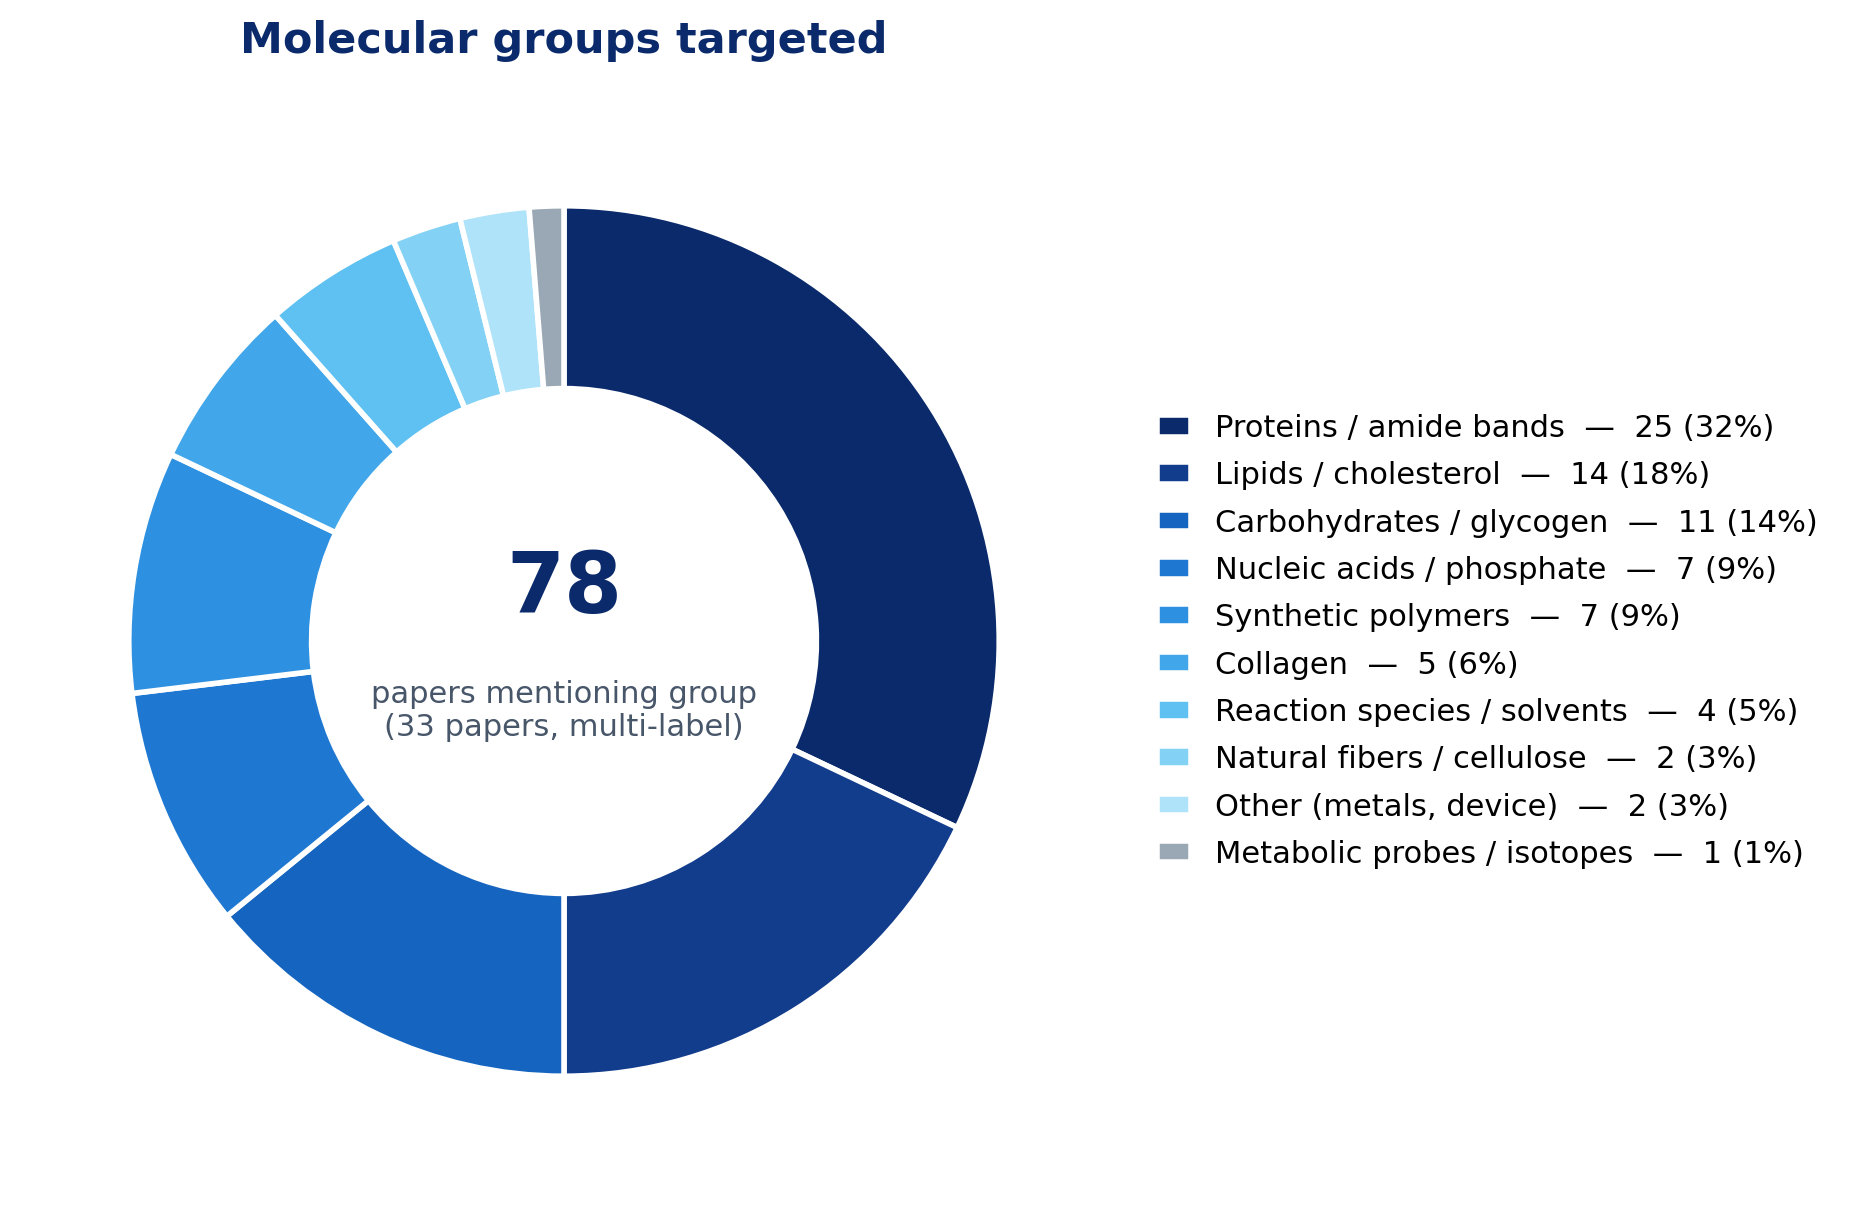
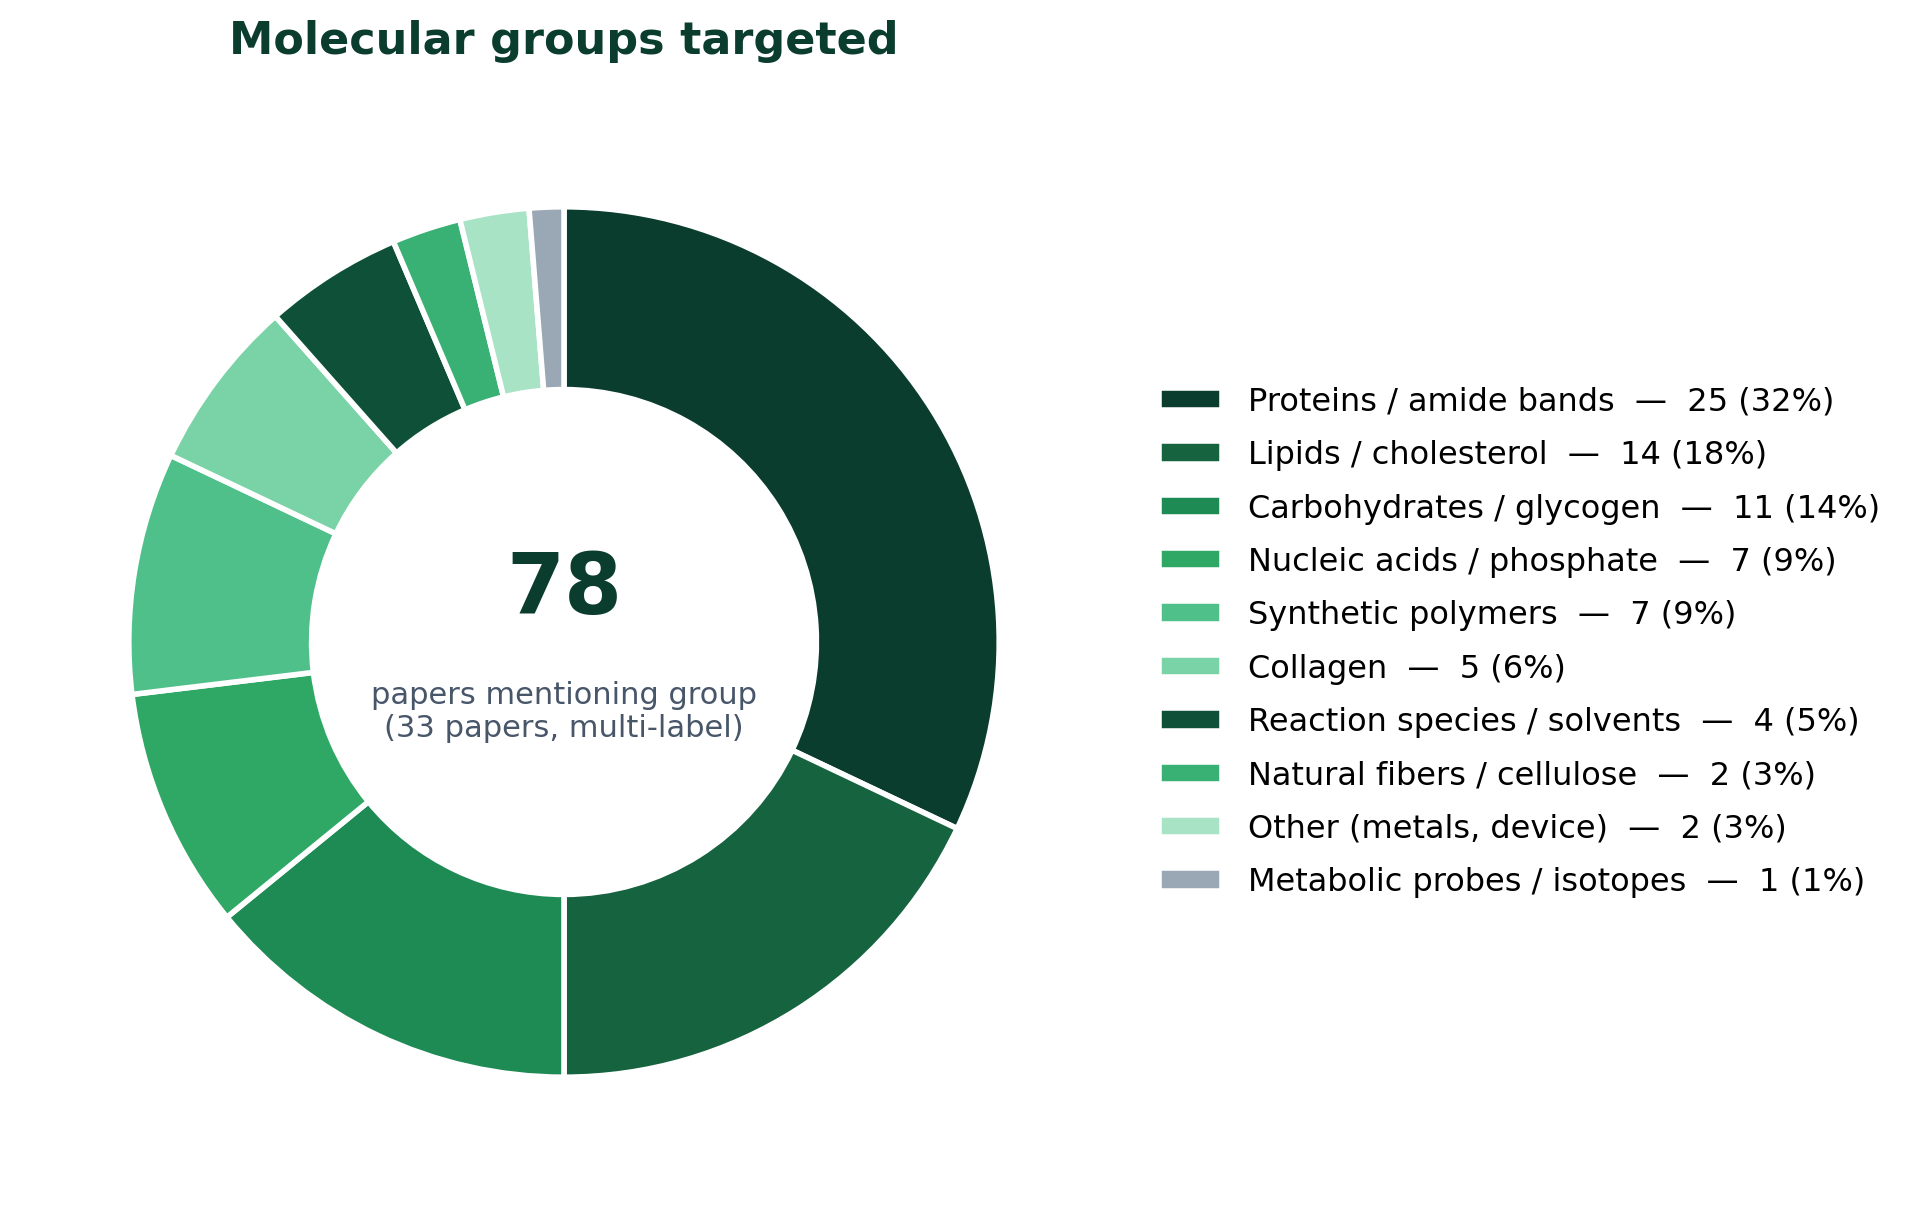
docs(report): green method/molecule donuts + reddish by-type sunbursts
- recolor spectral-method-family and molecular-group donuts to green
- add two nested by-type sunbursts (inner=method type, outer=methods),
  reddish, for spectra and images
- embed both new charts in the Visual summary

diff --git a/docs/05_Research/Spero_Publications_Overview.md b/docs/05_Research/Spero_Publications_Overview.md
@@ -45,6 +45,12 @@ Structured synthesis of the **36** Spero-filtered papers from the Daylight Solut
 
 <img src="assets/chart_image_methods.png" alt="Image-analysis methods by family" width="620">
 
+**Methods grouped by type.** Nested donuts — inner ring = method *type* (physical model · mathematical/preprocessing · classic ML · deep learning · statistics), outer ring = the individual methods within each type (shaded in the type's hue).
+
+<img src="assets/chart_spectral_by_type.png" alt="Spectral methods grouped by type" width="680">
+
+<img src="assets/chart_image_by_type.png" alt="Image methods grouped by type" width="680">
+
 **What is measured — sample types and molecular groups.**
 
 <img src="assets/chart_sample_types.png" alt="Sample types studied" width="620">